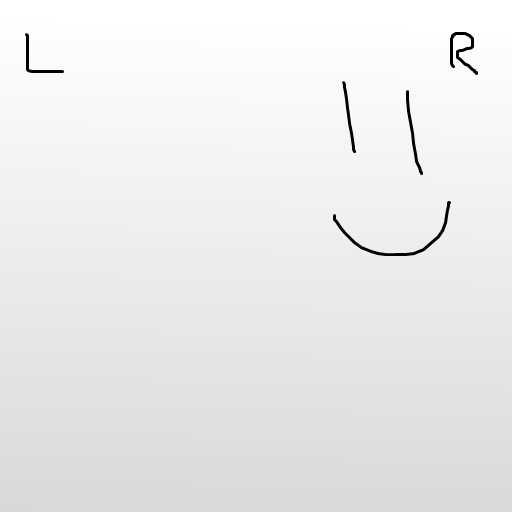
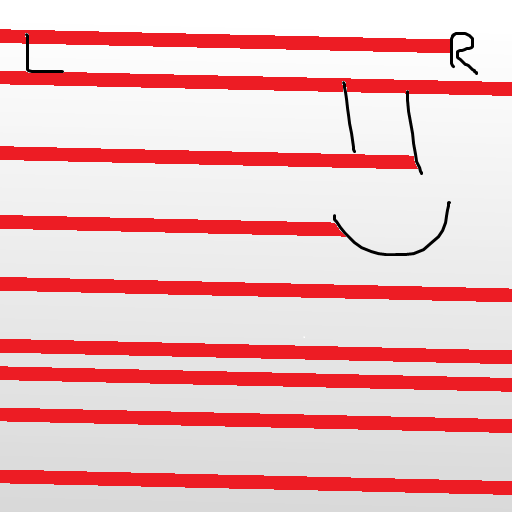
Got holes working!!! Lots of junk though I have to remove, committing first 	renamed:    sheet.png -> sheet - Copy (2).png 	modified:   sheet.png 	new file:   sheet2.png 	modified:   src/PaperSheet.cpp 	modified:   src/PaperSheet.h 	modified:   src/myGame.cpp

diff --git a/src/PaperSheet.cpp b/src/PaperSheet.cpp
@@ -3,17 +3,16 @@
 #include "PaperSheet.h"
 
 IDirect3DVertexDeclaration9* PaperSheet::paperDecl = NULL;
-LPDIRECT3DTEXTURE9* PaperSheet::textures = new LPDIRECT3DTEXTURE9[NUM_TEXTURES];	// possible textures to use
 LPDIRECT3DTEXTURE9 PaperSheet::holeTexture = NULL;
 paperVertex* PaperSheet::vertices = new paperVertex[VTX_NUM];
 
-const float PaperSheet::sharedPitch = /*0.0f*/90.0f;
+const float PaperSheet::sharedPitch = -90.0f;//90.0f;
 const float PaperSheet::paperRatio = 11 / 8.5f;	// paper ratio
 const float PaperSheet::sharedScaleY = 2000.0f;
 const float PaperSheet::sharedScaleX = sharedScaleY * paperRatio;
 const float PaperSheet::sharedScaleZ = 0.5f;
 const D3DXVECTOR3 PaperSheet::_sharedPosition
-	= D3DXVECTOR3(0, -sharedScaleY, sharedScaleX * 0.75f);	// move the sheet so the origin is the middle
+	= D3DXVECTOR3(0, sharedScaleY, sharedScaleX * 0.75f);	// move the sheet so the origin is the middle
 															// of where the sheet falls
 
 PaperSheet::PaperSheet() 
@@ -29,7 +28,10 @@ PaperSheet::PaperSheet()
 	deleteMe = false;
 	floor	 = false;
 
-	gTexture = textures[0];	
+	// Todo: load random picture
+	D3DXCreateTextureFromFile(md3dDev, "sheet.png", &frontTexture);
+	D3DXCreateTextureFromFile(md3dDev, "sheet2.png", &backTexture);
+
 
 	/*
 	// Only 8 vertices that unfortunately have to be repeated several times in order to use texture coordinates
@@ -119,6 +121,8 @@ PaperSheet::PaperSheet()
 PaperSheet::~PaperSheet() {
 	mVtxBuf->Release();
 	paperDecl->Release();
+	frontTexture->Release();
+	backTexture->Release();
 	//mIndBuf->Release();
 }
 
@@ -128,11 +132,14 @@ void PaperSheet::setupVertices()
 	D3DCOLOR color2	= D3DCOLOR_XRGB(200, 200, 200);
 
 	// TODO: Remove extra texture coordinates
+
+	// Back face???????
 	// Front Face (1-2-3-4), flip the vertex coordinates to show properly for some reason
-	vertices[0]		= paperVertex(D3DXVECTOR3( -1.0f, 1.0f, -1.0f), color1, D3DXVECTOR2(1,1), D3DXVECTOR2(1,1));
-	vertices[1]		= paperVertex(D3DXVECTOR3( 1.0f, 1.0f, -1.0f), color1, D3DXVECTOR2(0,1), D3DXVECTOR2(0,1));
-	vertices[2]		= paperVertex(D3DXVECTOR3( -1.0f, -1.0f, -1.0f), color1, D3DXVECTOR2(1,0), D3DXVECTOR2(1,0));
-	vertices[3]		= paperVertex(D3DXVECTOR3( 1.0f, -1.0f, -1.0f), color1, D3DXVECTOR2(0,0), D3DXVECTOR2(0,0));
+	// Even though the vertices are 1 2 3 4, it renders the texture in this order: 1, 3, 2, 4
+	vertices[0]		= paperVertex(D3DXVECTOR3( -1.0f, 1.0f, -1.0f), color1, D3DXVECTOR2(0,0), D3DXVECTOR2(0,0));
+	vertices[1]		= paperVertex(D3DXVECTOR3( 1.0f, 1.0f, -1.0f), color1, D3DXVECTOR2(1,0), D3DXVECTOR2(0,0));
+	vertices[2]		= paperVertex(D3DXVECTOR3( -1.0f, -1.0f, -1.0f), color1, D3DXVECTOR2(0,1), D3DXVECTOR2(0,0));
+	vertices[3]		= paperVertex(D3DXVECTOR3( 1.0f, -1.0f, -1.0f), color1, D3DXVECTOR2(1,1), D3DXVECTOR2(0,0));
 
 	// Right Face (2-6-4-8)
 	vertices[4]		= paperVertex(D3DXVECTOR3( 1.0f, 1.0f, -1.0f), color1, D3DXVECTOR2(0,0), D3DXVECTOR2(0,0));
@@ -144,13 +151,14 @@ void PaperSheet::setupVertices()
 	vertices[8]		= paperVertex(D3DXVECTOR3( -1.0f, 1.0f, 1.0f), color1, D3DXVECTOR2(0,0), D3DXVECTOR2(0,0));
 	vertices[9]		= paperVertex(D3DXVECTOR3( 1.0f, 1.0f, 1.0f), color1, D3DXVECTOR2(0,0), D3DXVECTOR2(0,0));
 	vertices[10]	= paperVertex(D3DXVECTOR3( -1.0f, 1.0f, -1.0f), color1, D3DXVECTOR2(0,0), D3DXVECTOR2(0,0));
-	vertices[11]	= paperVertex(D3DXVECTOR3( 1.0f, 1.0f, -1.0f), color1, D3DXVECTOR2(1,1), D3DXVECTOR2(0,0));
+	vertices[11]	= paperVertex(D3DXVECTOR3( 1.0f, 1.0f, -1.0f), color1, D3DXVECTOR2(0,0), D3DXVECTOR2(0,0));
 
+	// Front face??????
 	// Back Face (6-5-8-7), flip the vertex coordinates to show properly for some reason
-	vertices[12]	= paperVertex(D3DXVECTOR3( 1.0f, 1.0f, 1.0f), color1, D3DXVECTOR2(1,1), D3DXVECTOR2(0,1));
-	vertices[13]	= paperVertex(D3DXVECTOR3( -1.0f, 1.0f, 1.0f), color1, D3DXVECTOR2(0,1), D3DXVECTOR2(1,1));
-	vertices[14]	= paperVertex(D3DXVECTOR3( 1.0f, -1.0f, 1.0f), color1, D3DXVECTOR2(1,0), D3DXVECTOR2(0,0));
-	vertices[15]	= paperVertex(D3DXVECTOR3( -1.0f, -1.0f, 1.0f), color1, D3DXVECTOR2(0,0), D3DXVECTOR2(1,0));
+	vertices[12]	= paperVertex(D3DXVECTOR3( 1.0f, 1.0f, 1.0f), color1, D3DXVECTOR2(0,0), D3DXVECTOR2(0,0));
+	vertices[13]	= paperVertex(D3DXVECTOR3( -1.0f, 1.0f, 1.0f), color1, D3DXVECTOR2(1,0), D3DXVECTOR2(0,0));
+	vertices[14]	= paperVertex(D3DXVECTOR3( 1.0f, -1.0f, 1.0f), color1, D3DXVECTOR2(0,1), D3DXVECTOR2(0,0));
+	vertices[15]	= paperVertex(D3DXVECTOR3( -1.0f, -1.0f, 1.0f), color1, D3DXVECTOR2(1,1), D3DXVECTOR2(0,0));
 
 	// Left Face (5-1-7-3)
 	vertices[16]	= paperVertex(D3DXVECTOR3( -1.0f, 1.0f, 1.0f), color1, D3DXVECTOR2(0,0), D3DXVECTOR2(0,0));
@@ -170,24 +178,16 @@ void PaperSheet::releaseVertices()
 	delete[] vertices;
 }
 
-void PaperSheet::loadTextures()
+void PaperSheet::loadHole()
 {
-	D3DXCreateTextureFromFile(md3dDev, "sheet.png", &textures[0]);
-	textures[1] = textures[2] = textures[3] = textures[4] = NULL;	// TODO: Remove!
-	D3DXCreateTextureFromFile(md3dDev, "hole.png", &holeTexture);										// TODO: Randomize
+	D3DXCreateTextureFromFile(md3dDev, "hole.png", &holeTexture);
 	md3dDev->SetSamplerState(0, D3DSAMP_MINFILTER, D3DTEXF_LINEAR);
 	md3dDev->SetSamplerState(0, D3DSAMP_MAGFILTER, D3DTEXF_LINEAR);
 }
 
-void PaperSheet::releaseTextures()
+void PaperSheet::releaseHole()
 {
-	for (int i = 0; i < NUM_TEXTURES; ++i) {
-		// TODO: remove this check
-		if (textures[i] != NULL) { textures[i]->Release(); }
-	}
-	delete[] textures;
 	holeTexture->Release();
-
 }
 
 int PaperSheet::initGeom() {
@@ -254,39 +254,66 @@ void PaperSheet::randomizeHole()
 
 void PaperSheet::createAlphaMask()
 {
-	D3DLOCKED_RECT sheetRec, holeRec;
-	D3DSURFACE_DESC sheetDesc, holeDesc;
-	IDirect3DSurface9 *sheetSurf, *holeSurf;
-	gTexture->GetSurfaceLevel(0, &sheetSurf);
+	D3DLOCKED_RECT frontRec, backRec, holeRec;
+	D3DSURFACE_DESC frontDesc, backDesc, holeDesc;
+	IDirect3DSurface9 *frontSurf, *backSurf, *holeSurf;
+
+	frontTexture->GetSurfaceLevel(0, &frontSurf);
+	backTexture->GetSurfaceLevel(0, &backSurf);
 	holeTexture->GetSurfaceLevel(0, &holeSurf);
-	sheetSurf->GetDesc(&sheetDesc);
+
+	frontSurf->GetDesc(&frontDesc);
+	backSurf->GetDesc(&backDesc);
 	holeSurf->GetDesc(&holeDesc);
 
-	sheetSurf->LockRect(&sheetRec, NULL, 0);
-	holeSurf->LockRect(&holeRec, NULL, 0);
+	UINT frontWidth = frontDesc.Width;
+	UINT frontHeight = frontDesc.Height;
 
-	UINT sheetWidth = sheetDesc.Width;
-	UINT sheetHeight = sheetDesc.Height;
+	UINT backWidth = backDesc.Width;
+	UINT backHeight = backDesc.Height;
+
 	UINT holeWidth = holeDesc.Width;
 	UINT holeHeight = holeDesc.Height;
-	BYTE* sbuffer = (BYTE*)(sheetRec.pBits);
-	BYTE* hbuffer = (BYTE*)(holeRec.pBits);
 
-	// For some reason the y value needs to be multiplied by 4
+	// Needs to be the same in order to make sense, if wrong do nothing
+	if (frontWidth != backWidth || frontHeight != backHeight)
+	{
+		return;
+	}
+
+	// TODO: Make LockRect only lock relevant pixels
+	frontSurf->LockRect(&frontRec, NULL, 0);
+	backSurf->LockRect(&backRec, NULL, 0);
+	holeSurf->LockRect(&holeRec, NULL, 0);
+
+	BYTE* frontBuffer = (BYTE*)(frontRec.pBits);
+	BYTE* backBuffer = (BYTE*)(backRec.pBits);
+	BYTE* holeBuffer = (BYTE*)(holeRec.pBits);
+
 	const int margin = 25;	// distance from edge
-	UINT startingY = 0;//rand() % (sheetHeight - holeHeight - margin) + margin;
-	UINT startingX = 0;//rand() % (sheetWidth - holeWidth - margin) + margin;
-
-	int rowNum = 0;
+	UINT startingY = rand() % (frontHeight - holeHeight - margin) + margin;
+	UINT startingX = rand() % (frontWidth - holeWidth - margin) + margin;
 	
-	for (UINT y = startingY; y < startingY + holeHeight; ++y) {		// Multiply by 4 for some reason
+	for (UINT y = startingY; y < startingY + holeHeight; ++y) {
 		for (UINT x = startingX; x < startingX + holeWidth; ++x) {
-			DWORD sIndex = (x * 4) + (y * sheetRec.Pitch);
+			DWORD index = (x * 4) + (y * frontRec.Pitch);
 			DWORD hIndex = ((x - startingX) * 4) + ((y - startingY) * holeRec.Pitch);
 			// since the hole is grayscale, RGB values should all be the same, so 255 = black, 0 = white
-			sbuffer[sIndex+3] = (BYTE)0;//(BYTE)hbuffer[hIndex];		// Alpha
+			//frontBuffer[index] = (BYTE)255;
+			//frontBuffer[index+1] = frontBuffer[index+2] = (BYTE)0;
+			frontBuffer[index+3] = (BYTE)holeBuffer[hIndex];		// Alpha
 		}
-		rowNum++;
+	}
+	
+	for (UINT y = startingY; y < startingY + holeHeight; ++y) {
+		for (UINT x = backWidth - startingX - holeWidth; x < backWidth - startingX; ++x) {
+			DWORD index = (x * 4) + (y * frontRec.Pitch);
+			DWORD hIndex = ((x + startingX + holeWidth - backWidth) * 4) + ((y - startingY) * holeRec.Pitch);
+			// since the hole is grayscale, RGB values should all be the same, so 255 = black, 0 = white
+			//backBuffer[index+1] = (BYTE)255;
+			//backBuffer[index] = backBuffer[index+2] = (BYTE)0;
+			backBuffer[index+3] = (BYTE)holeBuffer[hIndex];		// Alpha
+		}
 	}
 	
 	/*
@@ -301,8 +328,11 @@ void PaperSheet::createAlphaMask()
 		rowNum++;
 	}*/
 	
+
+	// TODO: Check if desc and  surfaces need to be released
 	holeSurf->UnlockRect();
-	sheetSurf->UnlockRect();
+	backSurf->UnlockRect();
+	frontSurf->UnlockRect();
 
 	/*
 	FYI To loop through every pixel:
@@ -341,8 +371,6 @@ void PaperSheet::createAlphaMask()
 		buffer += pitchDiff;
 	}
 	*/
-
-	gTexture->UnlockRect(0);
 }
 
 int PaperSheet::render(int time)
@@ -354,7 +382,7 @@ int PaperSheet::render(int time)
 	worldMat = matScale;
 
 	// Translate in order to rotate at bottom
-	D3DXMatrixTranslation(&matTranslate, 0, -mScaleY, 0);
+	D3DXMatrixTranslation(&matTranslate, 0, mScaleY, 0);
 	worldMat *= matTranslate;
 
 	// Rotation
@@ -364,7 +392,7 @@ int PaperSheet::render(int time)
 	worldMat *= matRotation;
 
 	// Translate back
-	D3DXMatrixTranslation(&matTranslate, 0, mScaleY, 0);
+	D3DXMatrixTranslation(&matTranslate, 0, -mScaleY, 0);
 	worldMat *= matTranslate;
 	
 	// Real Translation
@@ -388,8 +416,6 @@ int PaperSheet::render(int time)
 	//multiply arguments
 	md3dDev->SetTextureStageState(1,D3DTSS_COLOROP,D3DTOP_MODULATE);
 */
-
-	md3dDev->SetTexture(0, gTexture);
 	//alpha blending enabled
 	md3dDev->SetRenderState(D3DRS_ALPHABLENDENABLE,true);
 	//source blend factor
@@ -430,8 +456,27 @@ int PaperSheet::render(int time)
 	//md3dDev->SetRenderState(D3DRS_CULLMODE, D3DCULL_CCW);
 
 	//md3dDev->SetIndices(mIndBuf);
-	for (int i = 0; i < 6; i++)
-		md3dDev->DrawPrimitive(D3DPT_TRIANGLESTRIP, i * 4, 2);
+	//md3dDev->SetRenderState(D3DRS_FILLMODE, D3DFILL_WIREFRAME);
+	
+	/*
+	//arg 1 is texture (NEW)
+	md3dDev->SetTextureStageState(0,D3DTSS_COLORARG1,D3DTA_TEXTURE);
+	//select arg 1 (NEW)
+	md3dDev->SetTextureStageState(0,D3DTSS_COLOROP,D3DTOP_SELECTARG1);
+
+	//arg 1 is texture (NEW)
+	md3dDev->SetTextureStageState(1,D3DTSS_COLORARG1,D3DTA_TEXTURE);
+	//select arg 1 (NEW)
+	md3dDev->SetTextureStageState(1,D3DTSS_COLOROP,D3DTOP_SELECTARG1);
+	*/
+
+	//for (int i = 0; i < 6; i++)
+	//	md3dDev->DrawPrimitive(D3DPT_TRIANGLESTRIP, i * 4, 2);
+	
+	md3dDev->SetTexture(0, backTexture);
+	md3dDev->DrawPrimitive(D3DPT_TRIANGLESTRIP, 3 * 4, 2);
+	md3dDev->SetTexture(0, frontTexture);
+	md3dDev->DrawPrimitive(D3DPT_TRIANGLESTRIP, 0 * 4, 2);
 	//md3dDev->DrawPrimitive(D3DPT_TRIANGLESTRIP, 20, 2);
 	//md3dDev->DrawPrimitive(D3DPT_TRIANGLELIST, 0, NUM_TRIANGLES);
 	//DrawIndexedPrimitive(D3DPT_TRIANGLELIST, 0, 0, VTX_NUM, 0, NUM_TRIANGLES);
@@ -442,7 +487,7 @@ int PaperSheet::render(int time)
 int PaperSheet::updateState() {
 	if (rotating) {
 		mPitch += 0.5f;
-		if (mPitch == 270.0f) {
+		if (mPitch == 90.0f) {
 			rotating = false;
 			deleteMe = true;
 		}

diff --git a/src/PaperSheet.h b/src/PaperSheet.h
@@ -35,8 +35,8 @@ public:
 
 	static void setupVertices();
 	static void releaseVertices();
-	static void loadTextures();
-	static void releaseTextures();
+	static void loadHole();
+	static void releaseHole();
 
 	void setPitch(float newValue);
 	void setFloor();
@@ -57,8 +57,8 @@ private:
 	static IDirect3DVertexDeclaration9* paperDecl;
 	static const D3DXVECTOR3 _sharedPosition;
 
-	static LPDIRECT3DTEXTURE9* textures;				// possible textures to use for sheet
-	LPDIRECT3DTEXTURE9 gTexture;			// current sheet texture
+	LPDIRECT3DTEXTURE9 frontTexture;					// current front texture
+	LPDIRECT3DTEXTURE9 backTexture;						// current back texture
 	static LPDIRECT3DTEXTURE9 holeTexture;
 	static D3DXVECTOR3 texCenter;
 	static D3DXVECTOR3 texPos;
